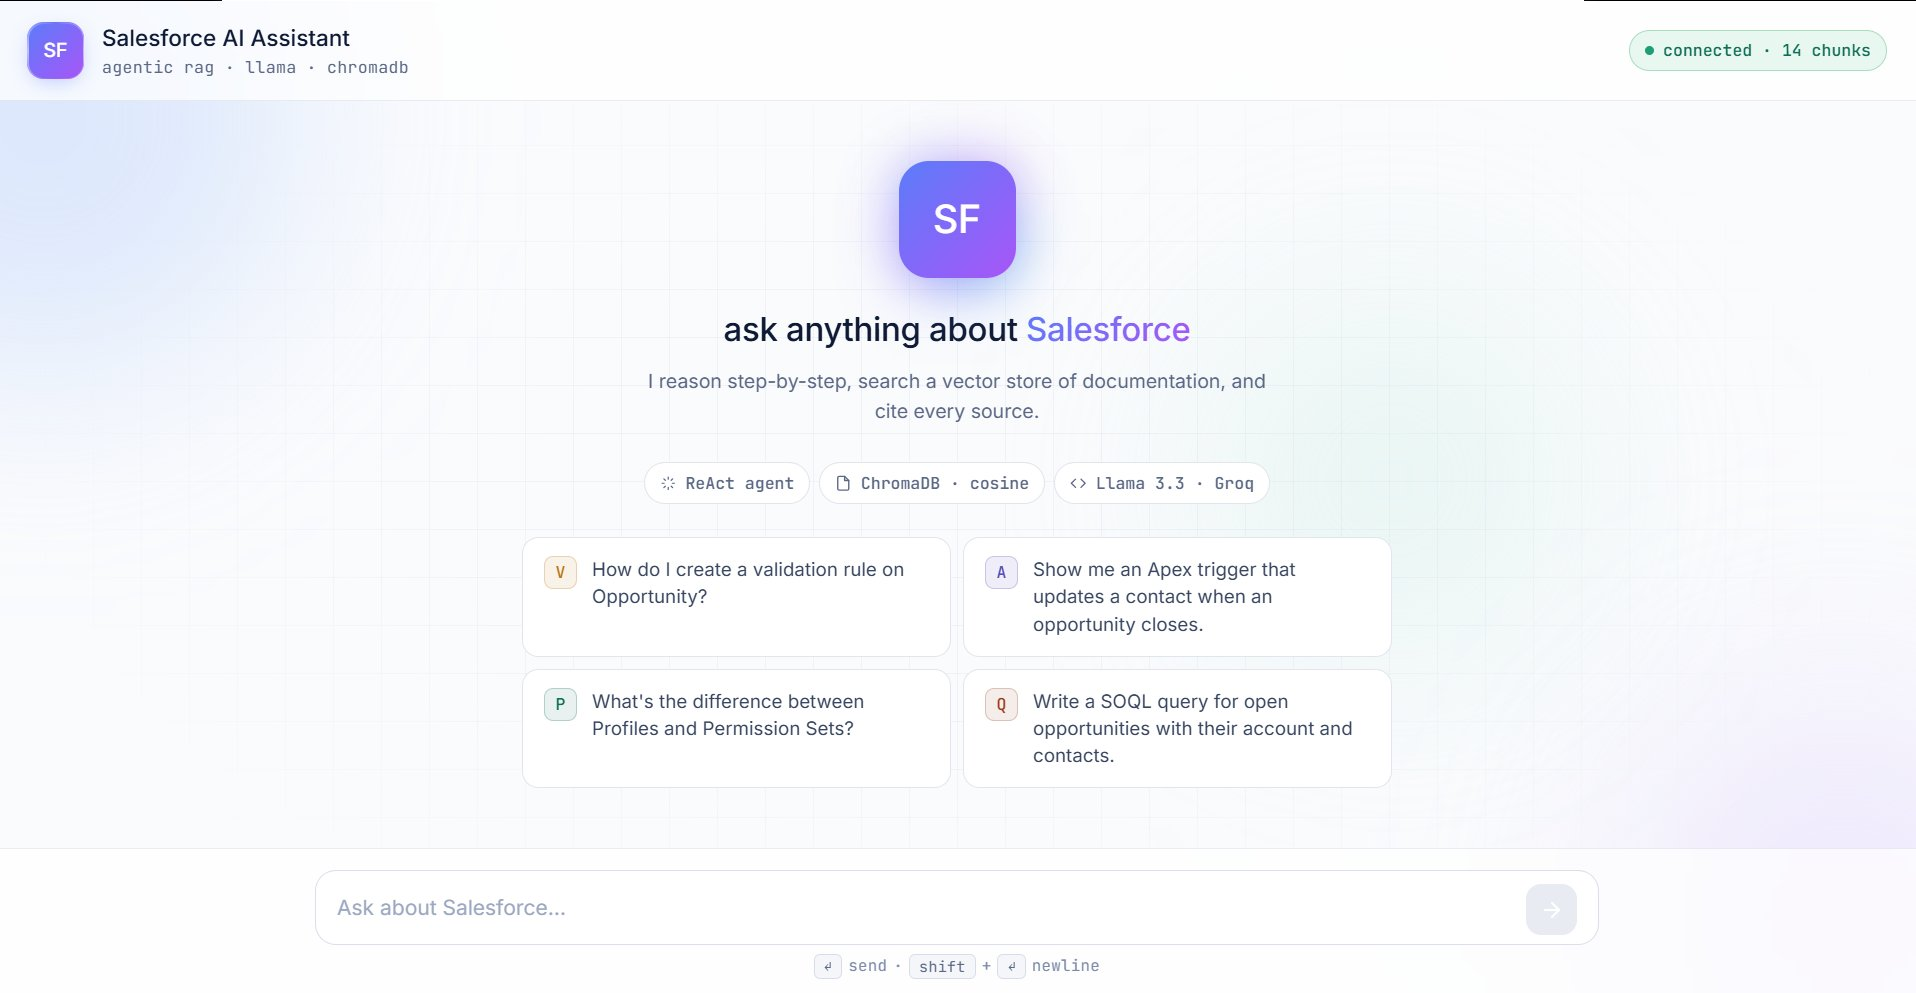
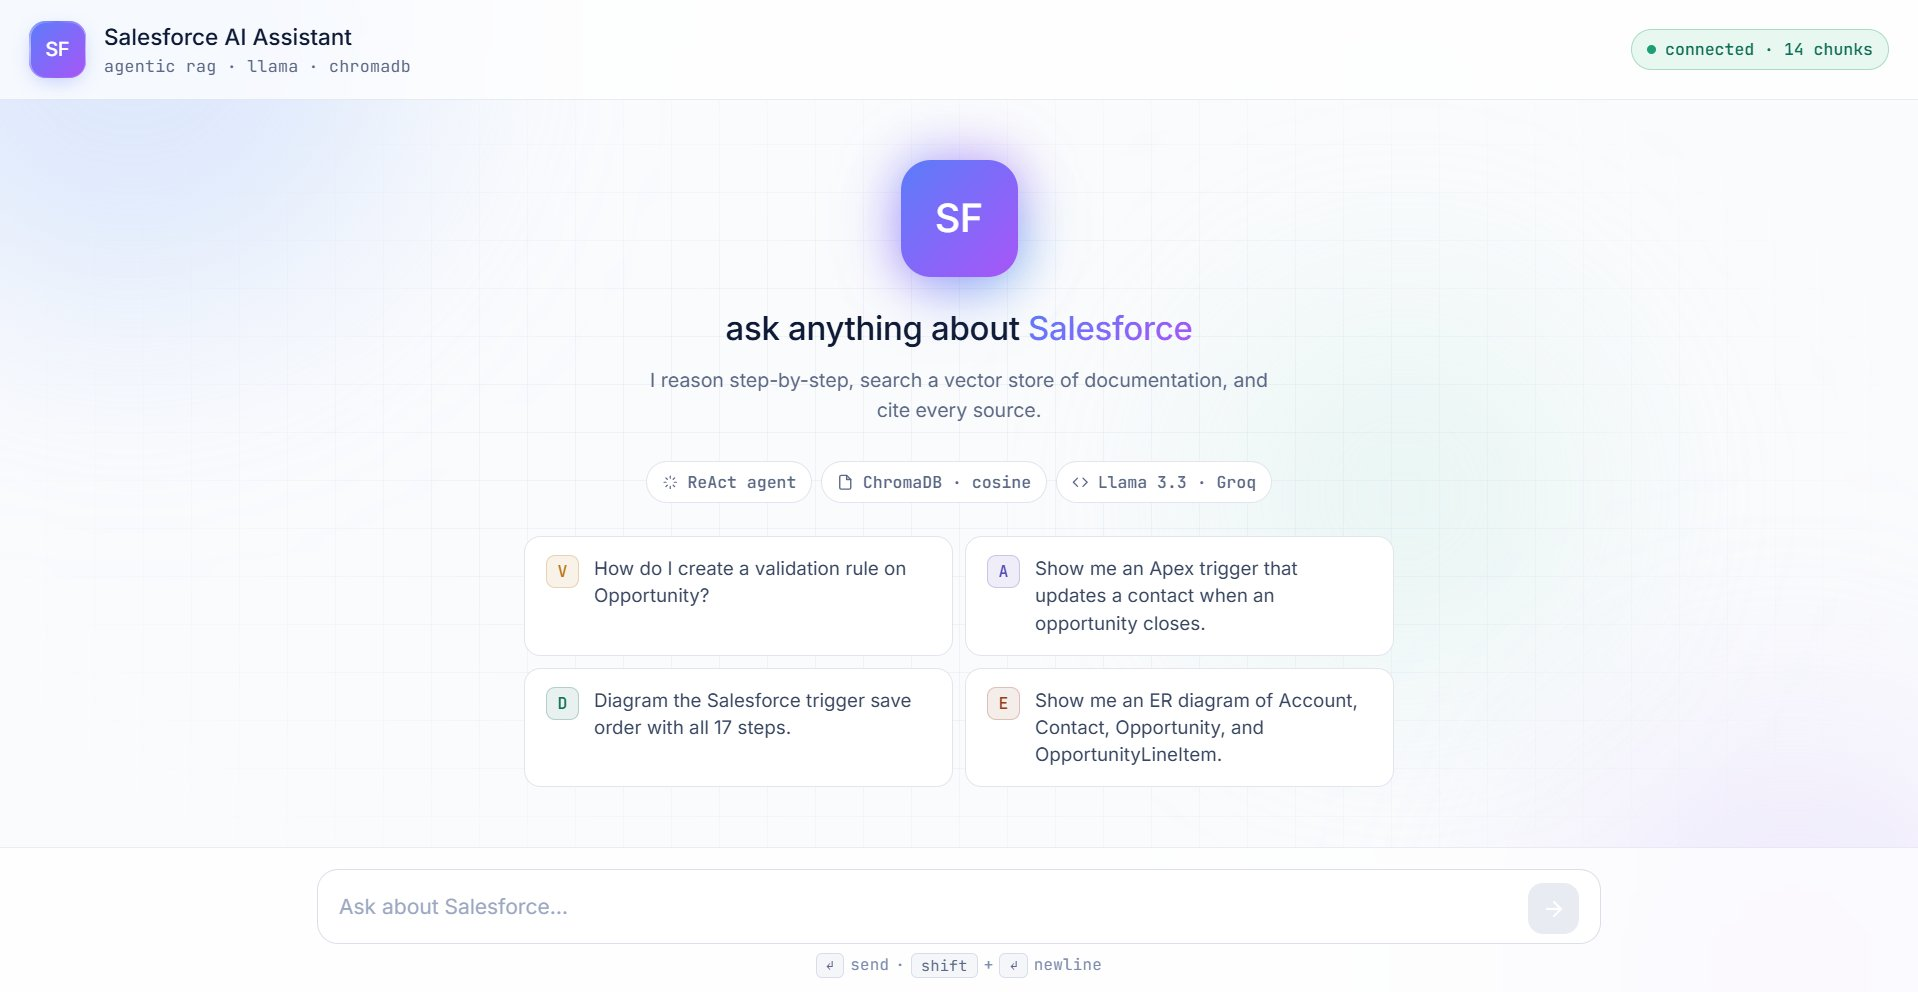
Add files via upload

diff --git a/data/projects.js b/data/projects.js
@@ -1,15 +1,5 @@
-// Order requested by user:
-// 1. Salesforce AI Assistant → 2. LWC Geek (interpreting "apex geek")
-// 3. Velocyte → 4. ES6 Geek → 5. Admin Geek → 6. Myntra × Salesforce
-// 7-9. QuickRide / EventHive / JS Geek
-
-// Primary: Thum.io
-const shot = (url, w = 1400, h = 900) =>
-  `https://image.thum.io/get/width/${w}/crop/${h}/${url}`
-
-// Fallback: WordPress mshots (kicks in only if Thum.io errors)
-export const fallbackShot = (url, w = 1400, h = 900) =>
-  `https://s.wordpress.com/mshots/v1/${encodeURIComponent(url)}?w=${w}&h=${h}`
+// All project hero screenshots are bundled locally — no external screenshot APIs.
+// Replace any image at /public/images/projects/<id>.png to update.
 
 export const projects = [
   {
@@ -35,11 +25,11 @@ export const projects = [
     subtitle: 'Interactive LWC Learning Platform',
     summary:
       '15 modules, a live LWC playground with iframe sandbox, multi-tab editor and an Apex code simulator with animated lifecycle diagrams.',
-    tags: ['React', 'Prism.js', 'iframe Sandbox', 'SVG'],
+    tags: ['React', 'Prism.js', 'iframe Sandbox'],
     year: '2025',
     role: 'Designer & Engineer',
     live: 'https://lwcgeek.vercel.app/',
-    image: shot('https://lwcgeek.vercel.app/'),
+    image: '/images/projects/lwc-geek.png',
     accent: '#ec4899',
   },
   {
@@ -53,8 +43,8 @@ export const projects = [
     year: '2024',
     role: 'Solo Build',
     live: 'https://velocyte.vercel.app/',
-    image: shot('https://velocyte.vercel.app/'),
-    accent: '#10b981',
+    image: '/images/projects/velocyte.png',
+    accent: '#22d3ee',
   },
   {
     id: 'es6-geek',
@@ -67,8 +57,8 @@ export const projects = [
     year: '2024',
     role: 'Solo Build',
     live: 'https://es6geek.vercel.app/',
-    image: shot('https://es6geek.vercel.app/'),
-    accent: '#eab308',
+    image: '/images/projects/es6-geek.png',
+    accent: '#10b981',
   },
   {
     id: 'admin-geek',
@@ -81,7 +71,7 @@ export const projects = [
     year: '2025',
     role: 'Solo Build',
     live: 'https://admin-geek.vercel.app/',
-    image: shot('https://admin-geek.vercel.app/'),
+    image: '/images/projects/admin-geek.png',
     accent: '#fb923c',
   },
   {
@@ -95,7 +85,7 @@ export const projects = [
     year: '2025',
     role: 'Full-stack',
     live: 'https://myntraxsalesforce.vercel.app/',
-    image: shot('https://myntraxsalesforce.vercel.app/'),
+    image: '/images/projects/myntra-sf.png',
     accent: '#f43f5e',
   },
   {
@@ -109,8 +99,8 @@ export const projects = [
     year: '2025',
     role: 'End-to-end',
     live: 'https://quickride-psi.vercel.app/',
-    image: shot('https://quickride-psi.vercel.app/'),
-    accent: '#22d3ee',
+    image: '/images/projects/quickride.png',
+    accent: '#a855f7',
   },
   {
     id: 'eventhive',
@@ -122,9 +112,8 @@ export const projects = [
     tags: ['LWC', 'Apex Triggers', 'Screen Flow', 'SFDX'],
     year: '2025',
     role: 'Architect',
-    image:
-      'https://images.unsplash.com/photo-1492684223066-81342ee5ff30?auto=format&fit=crop&w=1400&q=80',
-    accent: '#a855f7',
+    image: '/images/projects/eventhive.png',
+    accent: '#f97316',
   },
   {
     id: 'js-geek',
@@ -137,7 +126,7 @@ export const projects = [
     year: '2024',
     role: 'Solo Build',
     live: 'https://js-geek.vercel.app/',
-    image: shot('https://js-geek.vercel.app/'),
+    image: '/images/projects/js-geek.png',
     accent: '#3b82f6',
   },
 ]

diff --git a/components/ProjectsStack.jsx b/components/ProjectsStack.jsx
@@ -2,7 +2,7 @@
 import { memo, useRef, useState } from 'react'
 import { motion, useScroll, useTransform } from 'framer-motion'
 import { ArrowUpRight, Github, Image as ImageIcon } from 'lucide-react'
-import { projects, fallbackShot } from '@/data/projects'
+import { projects } from '@/data/projects'
 import SplitTextReveal from './SplitTextReveal'
 
 export default function ProjectsStack() {
@@ -38,19 +38,6 @@ const ProjectCard = memo(function ProjectCard({ p, i, total }) {
   const ref = useRef(null)
   const [imgFailed, setImgFailed] = useState(false)
   const [imgLoaded, setImgLoaded] = useState(false)
-  const [imgSrc, setImgSrc] = useState(p.image)
-  const [retried, setRetried] = useState(false)
-
-  // On primary fail, try fallback service. On second fail, give up → placeholder.
-  const handleImgError = () => {
-    if (!retried && p.live && typeof p.image === 'string' && p.image.startsWith('http')) {
-      setImgSrc(fallbackShot(p.live))
-      setRetried(true)
-      setImgLoaded(false)
-    } else {
-      setImgFailed(true)
-    }
-  }
 
   const { scrollYProgress } = useScroll({
     target: ref,
@@ -121,12 +108,12 @@ const ProjectCard = memo(function ProjectCard({ p, i, total }) {
               {/* Real screenshot fades in on top when it loads */}
               {!imgFailed && (
                 <img
-                  src={imgSrc}
+                  src={p.image}
                   alt={`${p.title} preview`}
                   loading="lazy"
                   decoding="async"
                   onLoad={() => setImgLoaded(true)}
-                  onError={handleImgError}
+                  onError={() => setImgFailed(true)}
                   className={`absolute inset-0 h-full w-full object-cover transition-opacity duration-700 ${
                     imgLoaded ? 'opacity-100' : 'opacity-0'
                   }`}
